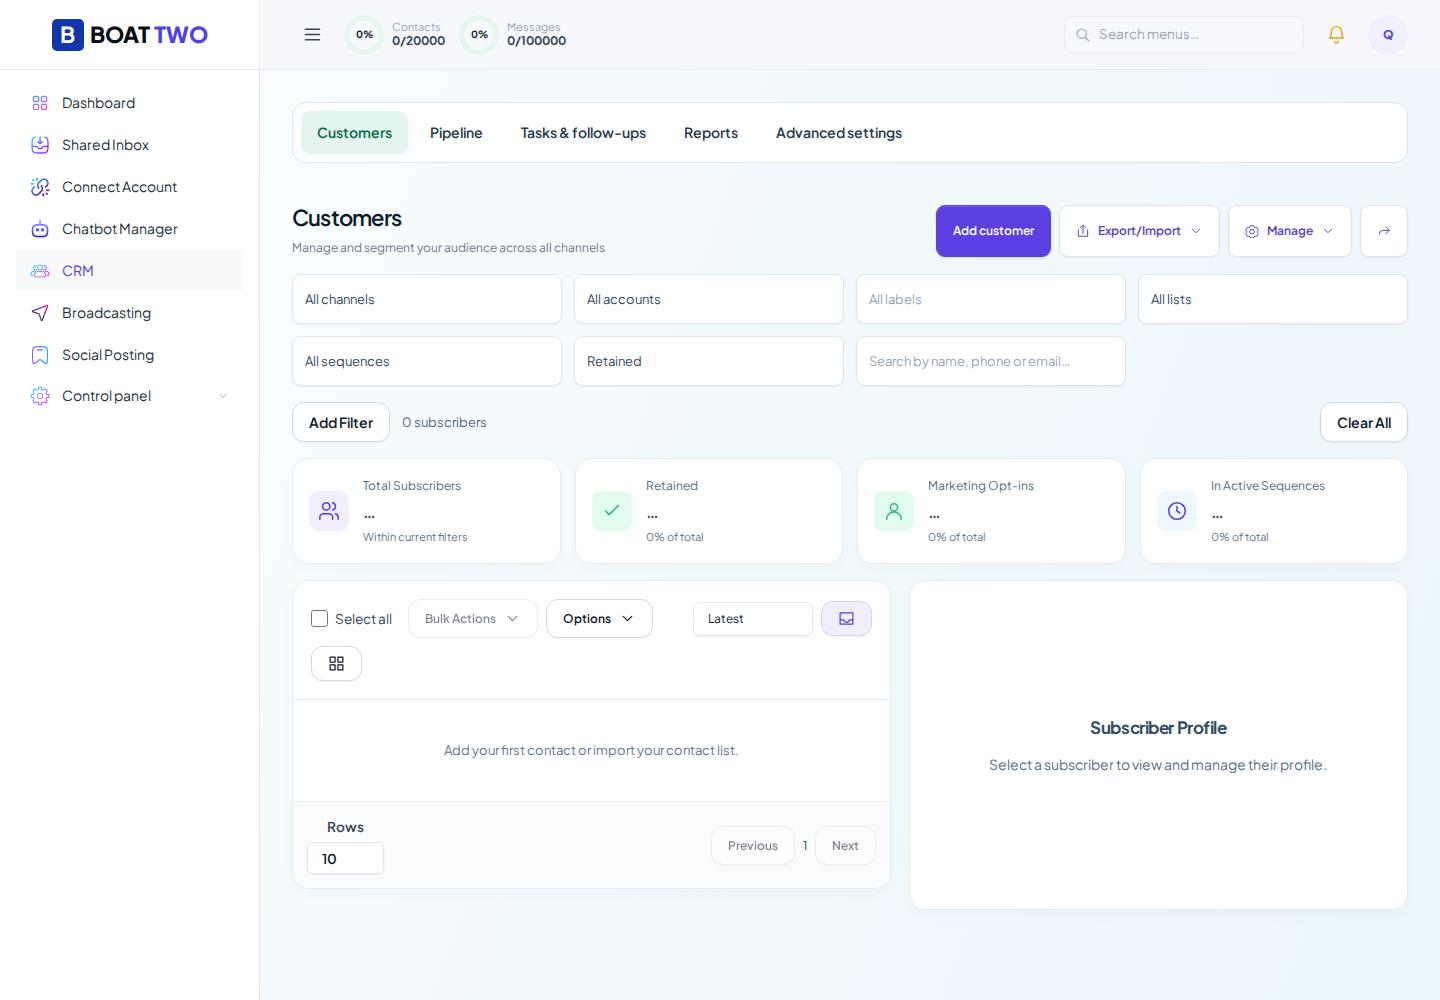
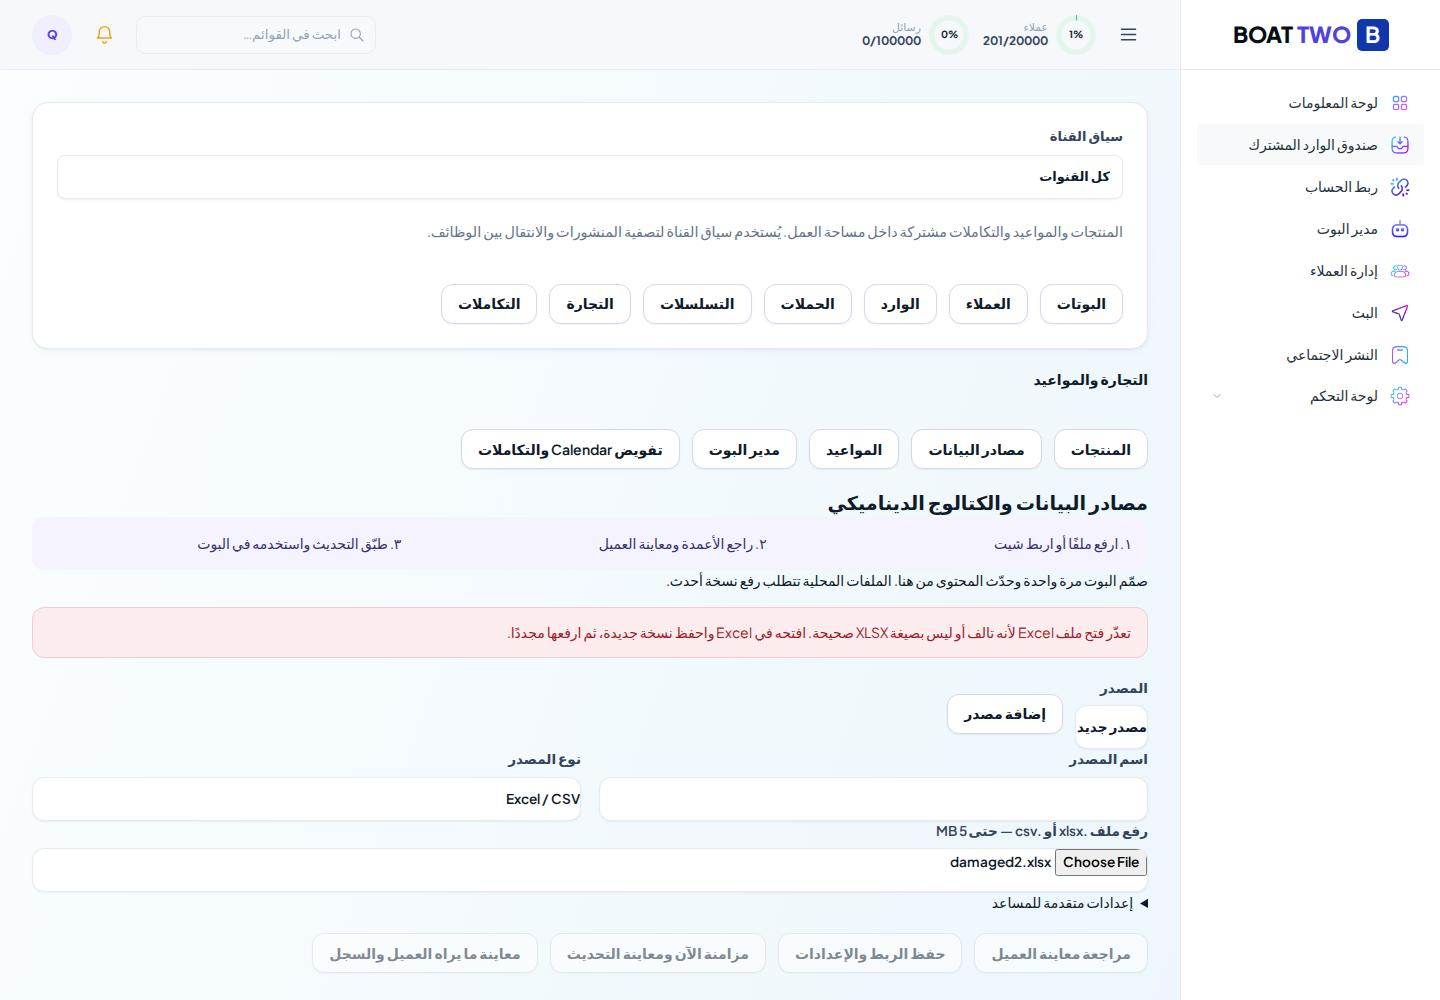
fix(crm): refresh usage after contact changes and checkpoint cloud QA

diff --git a/apps/web/components/business/CrmJobs.tsx b/apps/web/components/business/CrmJobs.tsx
@@ -28,6 +28,12 @@ export function CrmJobs() {
     window.addEventListener('boat:crm-jobs', reload);
     return () => window.removeEventListener('boat:crm-jobs', reload);
   }, [jobs.reload]);
+  const progressRevision = jobs.data
+    .map((job) => `${job.id}:${job.processed}:${job.status}`)
+    .join('|');
+  useEffect(() => {
+    if (progressRevision) window.dispatchEvent(new Event('boat:crm-changed'));
+  }, [progressRevision]);
   const hasActiveJobs = jobs.data.some((job) => ['pending', 'running'].includes(job.status));
   useEffect(() => {
     if (!hasActiveJobs) return;
@@ -85,7 +91,10 @@ export function CrmJobs() {
           {error || jobs.error}
         </p>
       )}
-      <details className="stack"><summary>{t('تصدير بتاريخ سابق وتفاصيل الاحتفاظ','Historical export and retention details')}</summary>
+      <details className="stack">
+        <summary>
+          {t('تصدير بتاريخ سابق وتفاصيل الاحتفاظ', 'Historical export and retention details')}
+        </summary>
         <label className="field">
           {t('تصدير تاريخ مسجّل (اختياري)', 'Recorded historical export (optional)')}
           <input type="datetime-local" value={asOf} onChange={(e) => setAsOf(e.target.value)} />
@@ -152,8 +161,22 @@ export function CrmJobs() {
                       ),
                     );
                   if (contacts.length <= 500) {
-                    const result = await api<{imported:number}>('/crm/contacts/import', {method:'POST',body:JSON.stringify({contacts:contacts.map((r:any)=>({...r,email:r.email || null,phone:r.phone || null,tags:Array.isArray(r.tags)?r.tags:String(r.tags || '').split(/[;|]/).filter(Boolean)}))})});
-                    setUploadProgress({done:result.imported,total:contacts.length});
+                    const result = await api<{ imported: number }>('/crm/contacts/import', {
+                      method: 'POST',
+                      body: JSON.stringify({
+                        contacts: contacts.map((r: any) => ({
+                          ...r,
+                          email: r.email || null,
+                          phone: r.phone || null,
+                          tags: Array.isArray(r.tags)
+                            ? r.tags
+                            : String(r.tags || '')
+                                .split(/[;|]/)
+                                .filter(Boolean),
+                        })),
+                      }),
+                    });
+                    setUploadProgress({ done: result.imported, total: contacts.length });
                     window.dispatchEvent(new Event('boat:crm-imported'));
                     return;
                   }

diff --git a/apps/web/app/dashboard/layout.tsx b/apps/web/app/dashboard/layout.tsx
@@ -168,6 +168,33 @@ function Shell({ children }: { children: ReactNode }) {
       })
       .catch((e) => setError(e.message));
   }, []);
+  useEffect(() => {
+    let active = true;
+    let revision = 0;
+    const refreshUsage = async () => {
+      const current = ++revision;
+      try {
+        const result = await api<{
+          usage: Record<string, string | number>;
+          plan: { limits: Record<string, number> };
+        }>('/workspace');
+        if (active && current === revision) {
+          setUsage(result.usage);
+          setLimits(result.plan.limits);
+        }
+      } catch {
+        // An unavailable count is clearer than presenting an old count as current.
+        if (active && current === revision) setUsage({});
+      }
+    };
+    window.addEventListener('boat:crm-changed', refreshUsage);
+    window.addEventListener('boat:crm-imported', refreshUsage);
+    return () => {
+      active = false;
+      window.removeEventListener('boat:crm-changed', refreshUsage);
+      window.removeEventListener('boat:crm-imported', refreshUsage);
+    };
+  }, []);
   async function logout() {
     const s = getSession();
     try {

diff --git a/apps/web/app/dashboard/crm/CRM.tsx b/apps/web/app/dashboard/crm/CRM.tsx
@@ -263,6 +263,7 @@ export default function CRM({ initialTab = 'contacts' }: { initialTab?: string }
     setBusy(true);
     try {
       const r = await api(path, { method, body: body ? JSON.stringify(body) : undefined });
+      if (path.startsWith('/crm/contacts')) window.dispatchEvent(new Event('boat:crm-changed'));
       setMessage(t('تم حفظ التغيير.', 'Change saved.'));
       refresh();
       return r;

diff --git a/docs/acceptance/2026-11-01-cloud-audit/CONTINUATION_AR.md b/docs/acceptance/2026-11-01-cloud-audit/CONTINUATION_AR.md
@@ -26,3 +26,29 @@
 ## تصحيح تجهيز المراجعة
 
 أول تشغيل على Railway لم يصل إلى الصحة خلال مهلة 45 ثانية، قبل أي اختبار سحابي. السبب التفصيلي غير محسوم بعد؛ لا يصنّف عطلًا في التطبيق. عُدلت بوابة المراجعة لتبدأ API أولًا، وتنتظر حتى 150 ثانية ثم تشغّل الواجهة، مع تسجيل مراحل بدء PostgreSQL وإشارات خروج العمليات. حد الخدمة المعزولة أصبح 2GB / 2 CPU. أعيد الفحص المحلي للمجموعات الأربع ونجح، وESLint للملفين ناجح. لا تغيير على إعدادات خدمات المالك.
+
+## دفعة تحقق محفوظة بعد تشغيل المراجعة
+
+- نسخة المراجعة نجحت على Railway: المصدر 19890ffe337dc52db1481f02ff5dd7e4eb9c7238، Deployment 2c926253-f319-42e3-814d-68148589e9f8.
+- الفحص المحلي أصبح 6 مجموعات ناجحة: أضيف اختبار استيراد 200 سجل حتى اكتمال المهمة تلقائيًا دون تحديث يدوي، ورسالة Excel التالف باللغتين. الصورة المحلية الحالية توثق رسالة Excel العربية.
+- المتصفح السحابي أنشأ شركة سياحة اصطناعية مستقلة بواسطة مساعد المراجعة ثم تحقق من الإعداد الحقيقي وCRM الفارغ وفتح الاستيراد. لا يُحسب تسجيلًا يدويًا ناجحًا.
+- أداة filechooser السحابية علقت وانتهت مهلتها قبل إثبات رفع الملف؛ لا نجاح مزعوم للاستيراد، ولا دليل عطل منتج. جلسة المتصفح أعيد ضبطها بعد ذلك. الصورة السحابية المحفوظة cloud-01-onboarding.jpg.
+- عند الاستئناف: أيقظ خدمة المراجعة، وأنشئ جلسة اختبار جديدة. محاولة ثانية من تبويب مباشر علقت أيضًا؛ لا تكرر filechooser في هذه الجلسة. هذا قيد أداة موثق وليس نتيجة التطبيق. البيانات مؤقتة وقد تعاد من الصفر بعد النوم/إعادة التشغيل؛ لا بيانات مالك مستخدمة.
+
+## دفعة G07 — عدّاد العملاء والأدلة السحابية
+
+أُعيد قبول 4 من الإصلاحات الستة على المصدر 19890: قائمة الأدوات، إخفاء سجل النظام من محادثة العميل (بتنفيذ عقدة handoff فعلًا مع بقاء السجل الداخلي)، ترويسة صلبة sticky، وتعليمات إعادة البدء بعد النهاية والتحويل. اختُبر المحاكي بالعربية، والإطار المحمول بعرض390 دون تجاوز أفقي. اللغة الإنجليزية بدّلت من قائمة الحساب الحقيقية. لا يُدّعى قبول كل صفحة باللغتين.
+
+وجد G07 / P3: أضف Alice وBob ثم Carol في CRM؛ جدول العملاء يتحدث إلى3 بينما عدّاد الترويسة يبقى2 حتى إعادة تحميل الصفحة. الصورة boat-cloud-qa-05-stale-count-before.jpg. السبب تحميل workspace مرة واحدة. الإصلاح يستمع لتغييرات العملاء وتقدم الاستيراد ويحدّث الاستخدام، مع منع نتائج الطلبات القديمة من تجاوز الأحدث. لا تغيير على API أو schema أو بيانات القنوات.
+
+نجحت7 مجموعات Chromium محلية، تشمل استيراد200 ثم إنشاء عميل يدويًا => عدّاد201 دون navigation/reload. Build الواجهة وTypeScript ضمن build ناجحان. مقارنة ESLint للملفات الثلاثة المتأثرة مع قاعدة PR90e33d9: صفر أخطاء جديدة؛ CRM/layout صفر، وCrmJobs خطأ any قديم واحد في الأصل والحالي. لم تُعطل قواعد. انظر review/lint-affected.json. لم نعد209 اختبارات ناجحة سابقة بلا سبب.
+
+بالسحابي: إنشاء3 عملاء وتعديل شركة العميل الاختيارية؛ Alice وBob فيQAGroup، ثم التنقل من رابط عميل مرتبط نجح. حساب agent حقيقي عبر دعوة بلا بريد؛ فتح CRM وملفAlice نجح، onboarding محمي، ومحاولة Save field رُفضت Insufficient role ولم تُنشئ الحقل. واجهة الحقل الإداري ما زالت ظاهرة للموظف: ملاحظة UX/P3، الحماية الخلفية تعمل.
+
+شركات Travel3a394045 وRestaurant42cefaad وStore7bad18a2 مستقلة: المطعم والمتجر بلا عملاء Travel، ومدير بوت المتجر بلا قنوات/بوتات. فتح رابطAlice المباشر من جلسة المطعم أعاد Contact not found ولم يعرض بياناته. هذه فحوص عزل محددة، لا تمثل إكمال جميع صلاحيات الوحدات.
+
+رفع الملفات بالسحابي محجوب بالأداة بعد محاولتين طويلتين (iframe ثم مباشر)، والثانية انتهت برسالة جلسة منتهية بعد نوم الخدمة. لا يُسجل قبول سحابي لتقدم الاستيراد أو ترجمة Excel. كلاهما ناجح محليًا ببيانات حقيقية في API/PGlite المعزول. بيانات المراجعة مؤقتة وتُفقد بالنوم/إعادة النشر.
+
+إصلاح G07 يحتاج قبولًا سحابيًا بعد نشر هذه الدفعة على خدمة المراجعة فقط. تبقى اختبارات جميع أنواع العقد، محادثة Webchat/Inbox الجديدة، Kanban بالسحب، دورة موظف كاملة، Tablet، آلاف السجلات والتزامن والأرشفة/الاستعادة غير مكتملة في هذه المتابعة. نتائج الحساب السابق تبقى مرجعًا منفصلًا وليست قبولًا لهذه التغييرات.
+
+الصور السحابية داخل review/boat-cloud-qa-01..07، والصورة local-review-smoke.jpg محلية فقط. لم تتغير خدمة المالك أو Meta، ولم تُرسل رسائل حقيقية. Google Sheets OAuth وWhatsApp الحي غير مختبرين. لا اعتماد للبيع العام.

diff --git a/docs/acceptance/2026-11-01-cloud-audit/VALIDATION.md b/docs/acceptance/2026-11-01-cloud-audit/VALIDATION.md
@@ -20,3 +20,13 @@ Readiness: useful for controlled owner-led QA; complete customer pilot acceptanc
 Continuation starts from verified PR6 HEAD e076fa9; the existing Web/API remain pinned at 1508308 / 803cc29 and were not changed. A separate `boat-cloud-qa-review` service (54948f68-14be-43e9-b6e5-67a89c3c2135) was prepared inside the EXISTING project, with no owner database, provider credentials or persistent volume. Its source is not deployed at this checkpoint. The review gateway starts the complete application and all 99 migrations against ephemeral PostgreSQL, strips inherited secrets from child environments, creates fresh cryptographic keys, and disables external delivery. Production Web/API startup commands are untouched.
 
 Four targeted local Chromium checks passed on the current fixed code: real registration API/onboarding UI through the review helper; tools-menu dismissal on canvas click; simulator terminal restart hint and separated internal diagnostics; opaque sticky header. Build and targeted ESLint pass. These are supplementary LOCAL browser checks, not post-fix Cloud Browser acceptance. Polling and Excel feedback remain pending browser checks. See review/local-smoke.json and CONTINUATION_AR.md. The existing 209-test run is retained as prior evidence and was not rerun without cause.
+
+### Follow-up checkpoint: review live, cloud upload tooling blocked
+
+The isolated review deployment `2c926253-f319-42e3-814d-68148589e9f8` reached terminal SUCCESS on source `19890ffe337dc52db1481f02ff5dd7e4eb9c7238`. Its startup now applies all 99 migrations before starting Web. The prior attempt never became healthy and was superseded; owner services remained Online. Six targeted LOCAL browser groups now pass, including a real 200-row import completing without manual refresh and malformed XLSX feedback in both English and Arabic. See updated review/local-smoke.json.
+
+Cloud Browser executed fresh synthetic tenant bootstrap via the review helper, verified the actual onboarding UI with zero contacts, and opened the CRM import dialog. Screenshot: review/cloud-01-onboarding.jpg. The filechooser tool then timed out before returning an upload result; this is BLOCKED tooling, not a passed import or a confirmed application defect. The Cloud Browser runtime subsequently reset and tabs were gone. No post-fix cloud acceptance of the six defects is claimed at this checkpoint. The existing owner Web/API still use 1508308 / 803cc29, unchanged.
+
+### متابعة G07 وأدلة المتصفح
+
+اقرأ CONTINUATION_AR.md لنتائج المتابعة المحدثة. أُعيد قبول4/6 إصلاحات سحابيًا؛ إصلاحا الاستيراد وExcel محجوبان بأداة رفع الملفات، ونجحا محليًا. أُصلح G07/P3 لعدّاد العملاء ونجحت7 مجموعات محلية؛ القبول السحابي لهذا الإصلاح معلق حتى نشر دفعة المراجعة. أضيفت7 صور متصفح فعلية ونتيجة lint المقارنة (صفر أخطاء جديدة على الملفات المتأثرة). لا اعتماد نشر نسخة المالك أو جاهزية البيع.
